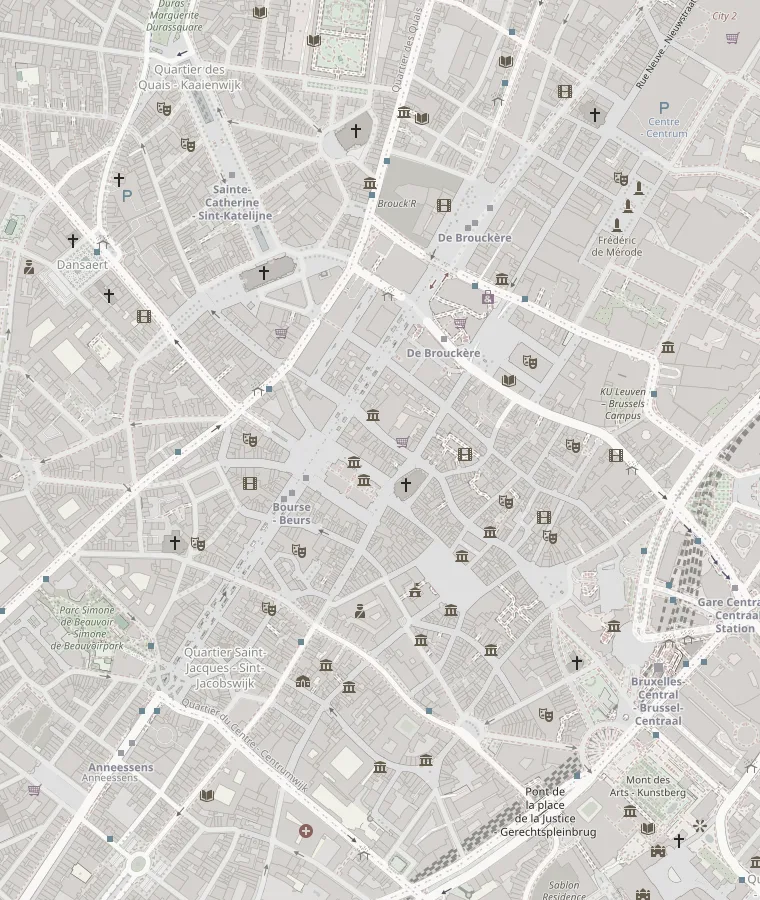
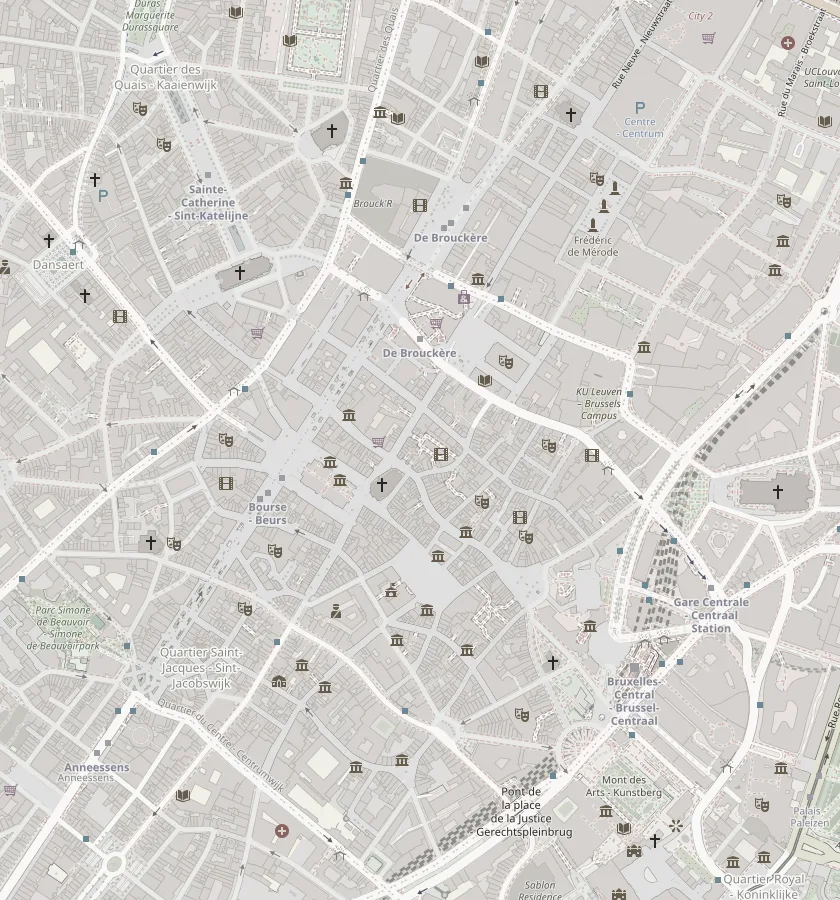
feat: hotel pin and numbered points of interest on the location map
- wider static map (cathedral and Central Station now inside)
- gold 'Craves' pin on the hotel, 10 numbered points placed from their GPS coordinates
- matching numbers in the 'Nearby' list (all languages)
- map keeps the image ratio so pins land exactly; Google Maps button moved top-left, clear of the points

diff --git a/src/content/location.ts b/src/content/location.ts
@@ -1,6 +1,24 @@
 import type { Localized, TitleParts } from './localize';
 import type { RouteKey } from '../i18n/routes';
 
+/**
+ * Position on the static map (src/assets/brand/carte-craves-hotel-bruxelles.webp, 840×900, OpenStreetMap
+ * zoom 16), in % of its width and height. Same order as `nearby.places`. Computed from GPS coordinates.
+ */
+export const MAP_HOTEL: [number, number] = [42.4, 46.4];
+export const MAP_POINTS: [number, number][] = [
+  [45.5, 53.9], // Église Saint-Nicolas
+  [31.9, 54.8], // Bourse · Belgian Beer World
+  [50.1, 63.8], // Grand-Place
+  [53.7, 24.8], // Métro De Brouckère
+  [65.2, 51.8], // Galeries Royales Saint-Hubert
+  [24.0, 31.0], // Place Sainte-Catherine
+  [36.7, 78.1], // Manneken-Pis
+  [75.5, 74.2], // Gare Centrale
+  [74.3, 87.3], // Mont des Arts
+  [92.6, 54.7], // Cathédrale Saints-Michel-et-Gudule
+];
+
 export interface LocationContent {
   metaTitle: string;
   metaDescription: string;
